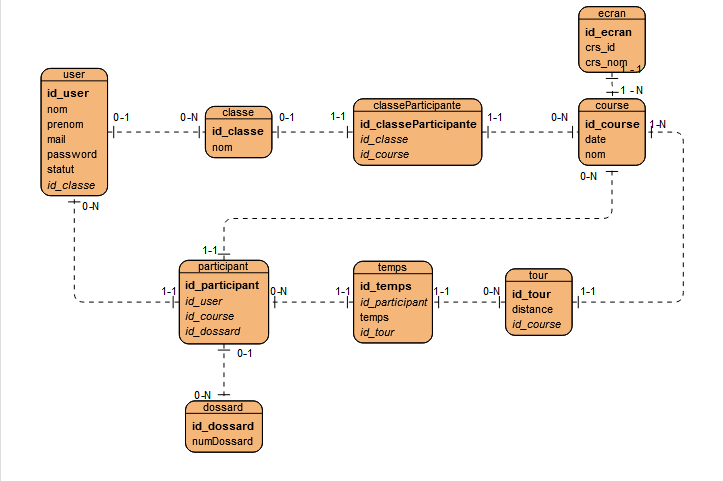
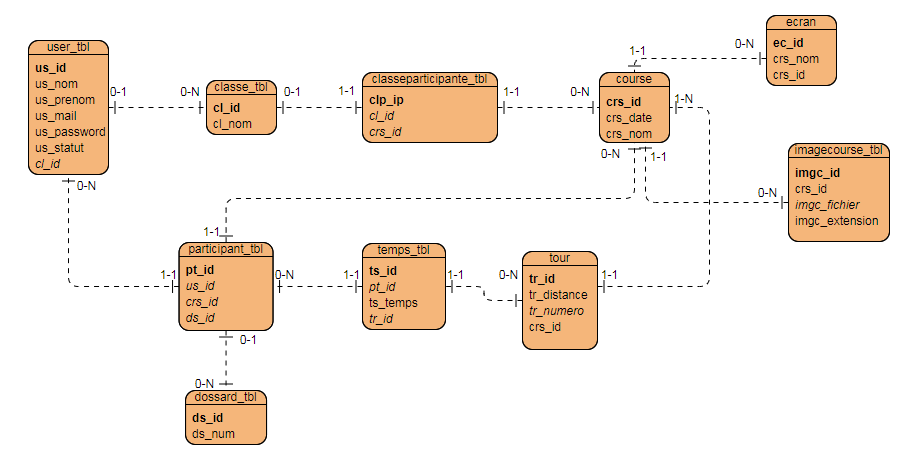
maj MCD + ajout gerer course

diff --git a/WEB/API/callRequestHistorique.js b/WEB/API/callRequestHistorique.js
@@ -1,4 +1,5 @@
-function showTab(classement) {
+function showTab(classement) 
+{
     // const participants = jsonObj['ds_num'];
     const table = document.getElementById('tab');
     table.innerHTML = ""
@@ -39,7 +40,8 @@ function showTab(classement) {
     }
 }
 
-function getClassement(){
+function getClassement()
+{
     const url = "./API/request.php";
     const req = new XMLHttpRequest();
 
@@ -53,4 +55,18 @@ function getClassement(){
     }
 }
 
-getClassement()
+function callHistorique()
+{
+    const form = document.getElementById("form");
+    const link = "./API/request.php?course=";
+    const reqs = new XMLHttpRequest();
+
+    document.getElementById("course").addEventListener("click", function(){
+        form.submit().getClassement();
+        
+        reqs.open('POST',link);
+        reqs.setRequestHeader('Content-type', 'application/x-www-form-urlencoded');
+        reqs.send();
+    });
+}
+

diff --git a/WEB/course.php b/WEB/course.php
@@ -39,6 +39,11 @@ include "navbar.php";
                     <a href="infoCourse.php">Information Course</a>
                 </button>
             </div>
+            <div class="text-center">
+                <button class="bg-blue-800 hover:bg-yellow-300 text-white hover:text-black font-bold py-2 px-4 rounded m-2">
+                    <a href="gererCourse.php">Gérer Course</a>
+                </button>
+            </div>
         </ul>
     </div>
 </body>

diff --git a/WEB/API/request.php b/WEB/API/request.php
@@ -8,7 +8,8 @@ $objClas = new Classement($bdd);
 $objEcr = new Ecran($bdd);
 
 //Valeur test
-$course = "Course0";
+$course = $_GET['course'];
+
 try{
     /*On récupère le nom de l'écran en bdd
     Récupération écran
